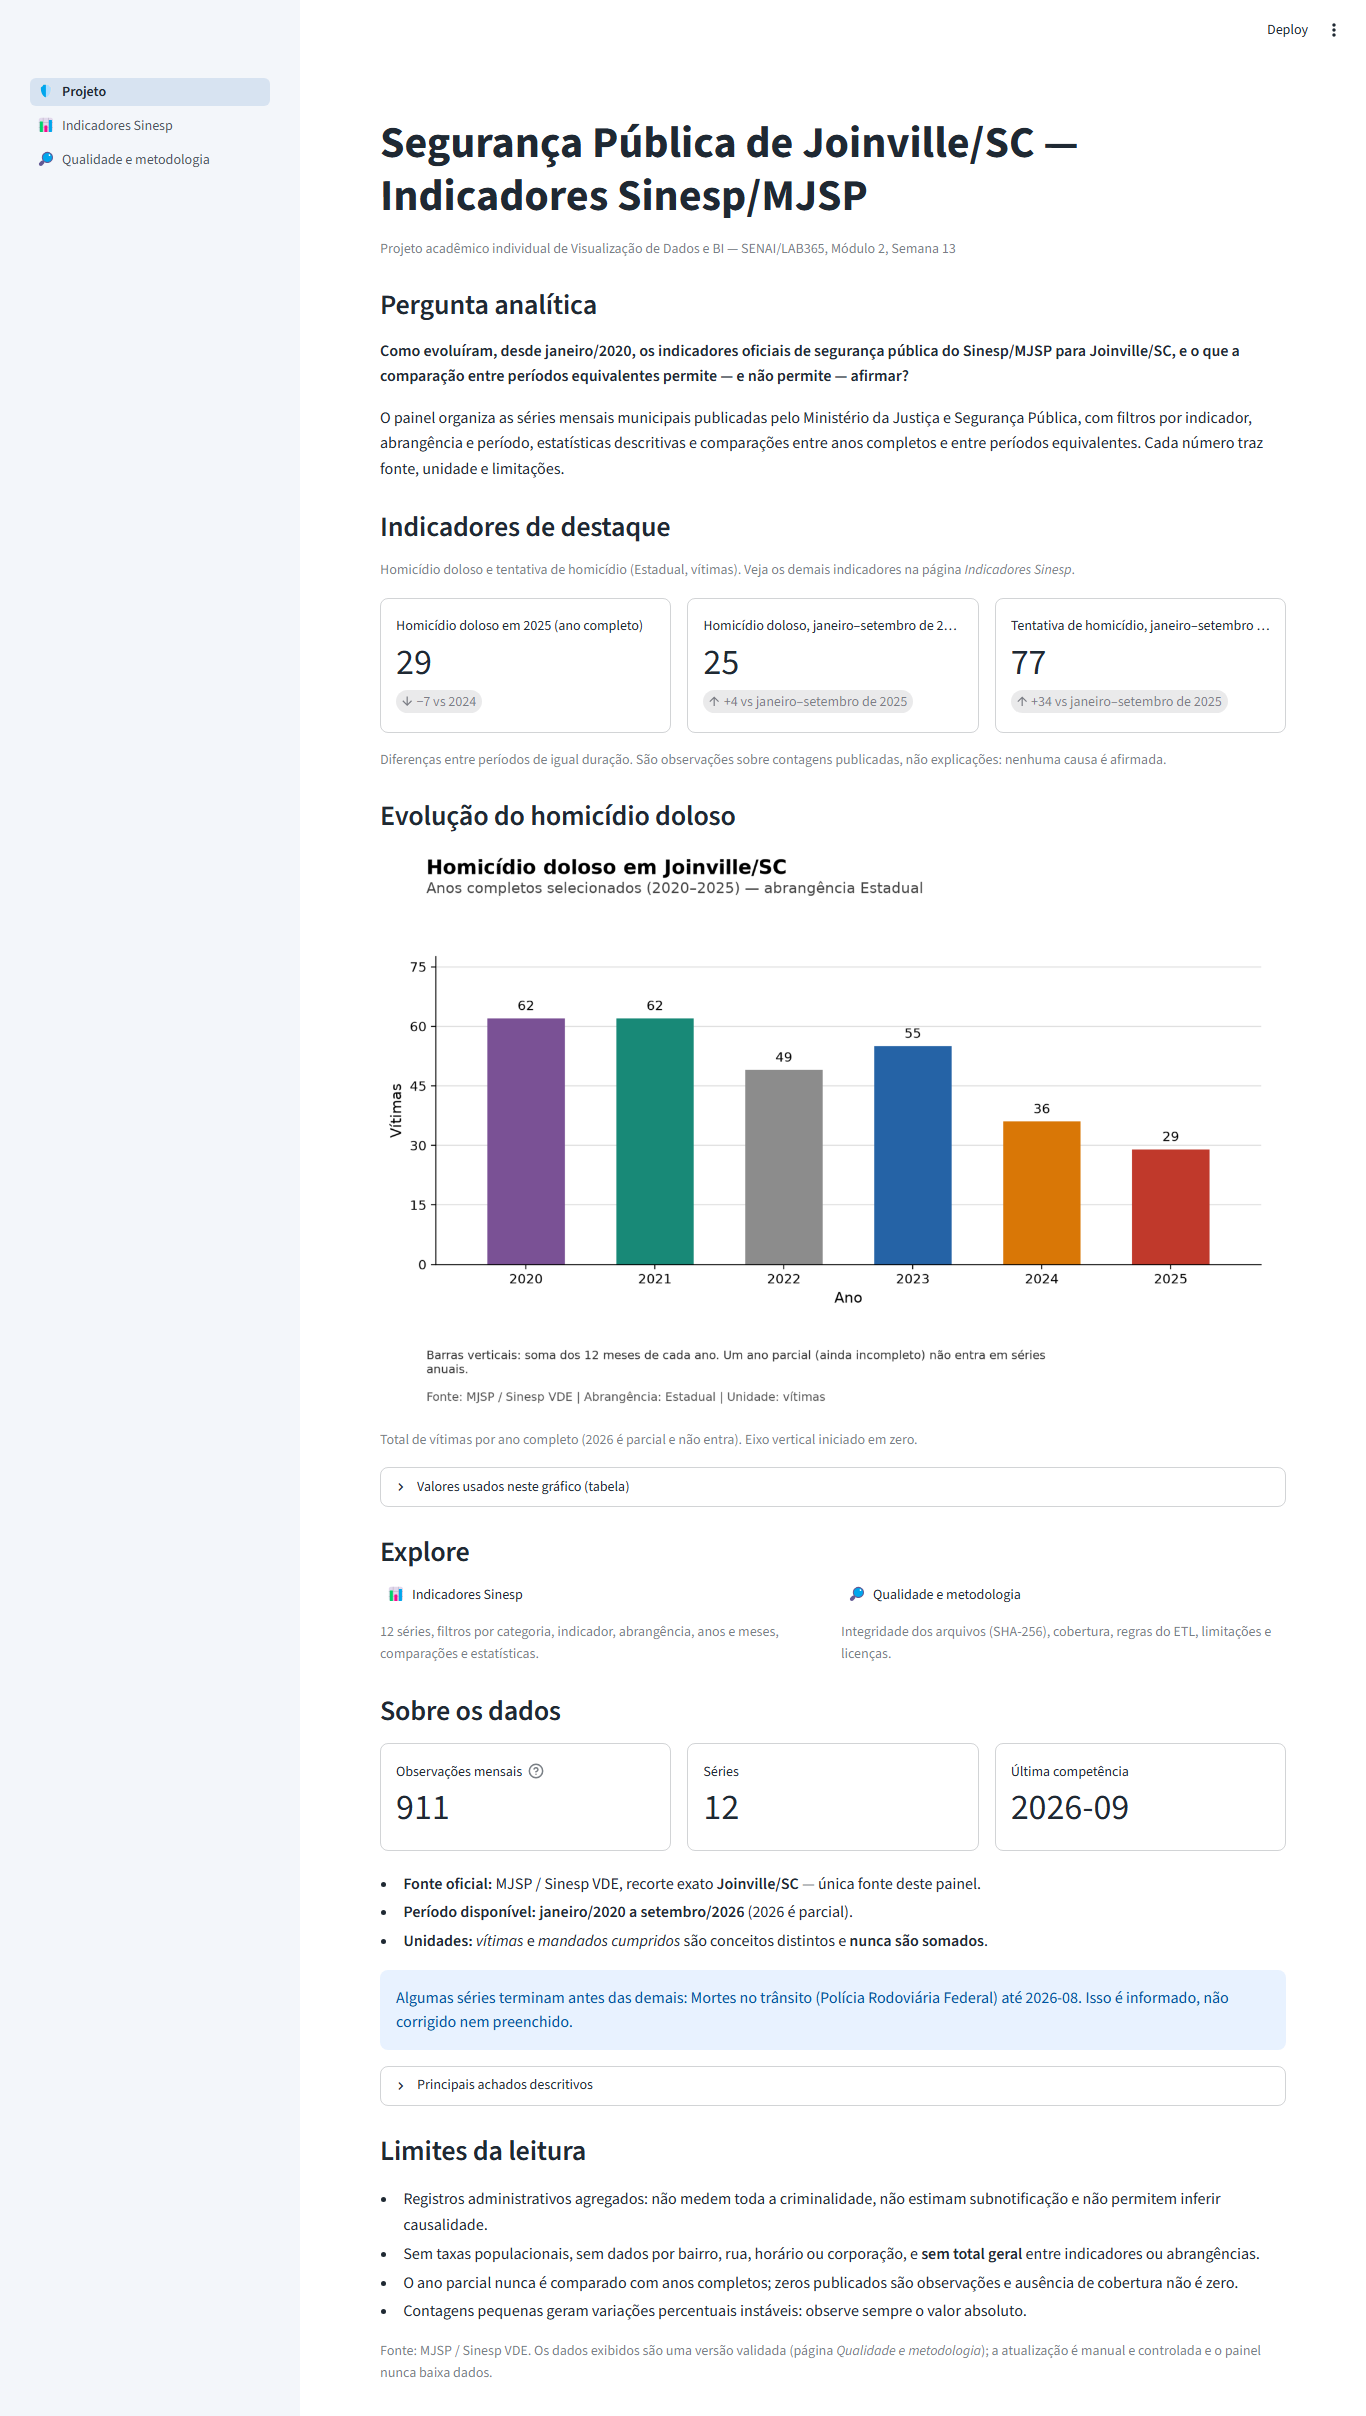
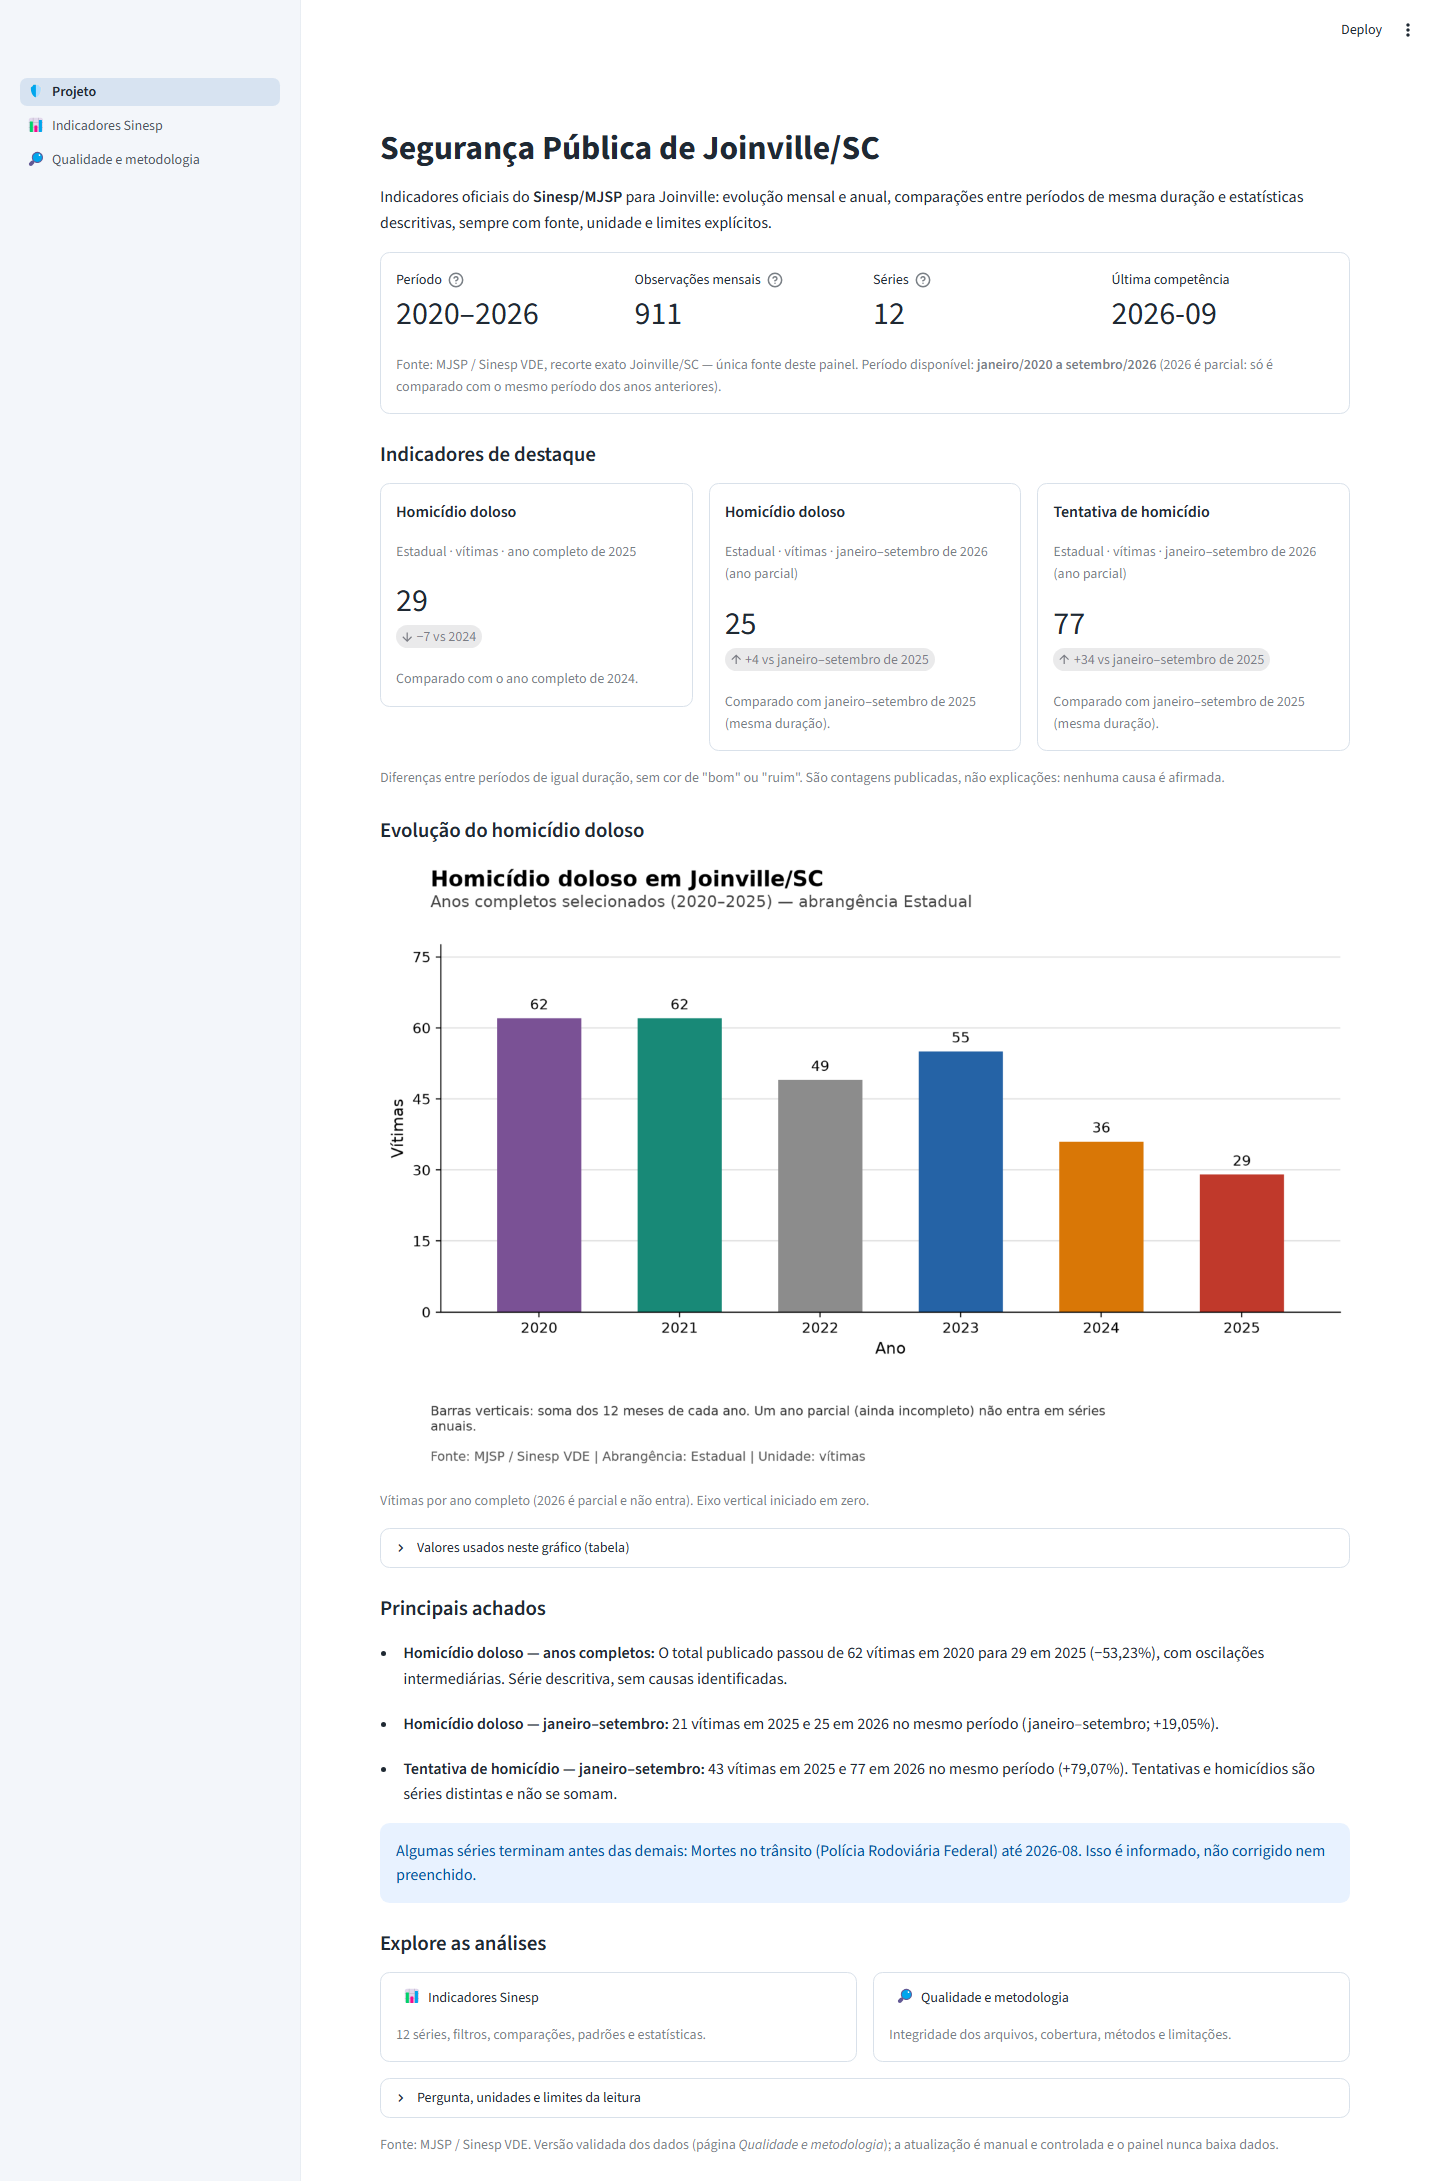
docs: atualiza capturas e descricao do painel no README
- imagens 01 a 04 substituidas por capturas reais do novo painel (Chrome,
  1440 px e 390 px)
- tabela de paginas do README descreve o novo conteudo de Projeto e Qualidade

diff --git a/README.md b/README.md
@@ -308,9 +308,9 @@ O painel tem **três páginas** e usa somente `dashboard/data_publica/` (Sinesp)
 
 | Página | Conteúdo |
 |---|---|
-| **Projeto** | Pergunta, três indicadores de destaque, o gráfico do homicídio doloso por ano e os limites da leitura |
+| **Projeto** | Fonte e período, três cartões de destaque (indicador, abrangência, unidade, período e base de comparação), o gráfico do homicídio doloso por ano, os principais achados e atalhos para as análises |
 | **Indicadores Sinesp** | Filtros (Categoria → Indicador → Abrangência; Período → Meses), resumo em cartões e cinco abas: Evolução, Comparações, Padrões e tendência, Estatística e outliers, Indicadores e interpretação |
-| **Qualidade e metodologia** | Integridade dos arquivos (SHA-256), cobertura por série, métodos, limitações, atualização e licenças |
+| **Qualidade e metodologia** | Resumo no topo (arquivos íntegros, versão, última competência, ausentes) e abas com integridade, cobertura, métodos, limitações, atualização e licenças |
 
 O filtro de meses vale para o resumo e as análises mensais; totais anuais, média móvel, acumulado e perfil mensal usam sempre os 12 meses e mostram o aviso "Análise de ano completo". A seta dos cartões acompanha o sinal da diferença. Só a aba aberta é calculada (a página abre em cerca de 3 s em vez de 7 s). Cada gráfico tem a tabela com os valores usados. A chave **Visualização compacta (celular)** gera figuras estreitas com os mesmos números. Capturas: [Projeto](documentacao/painel/imagens/01_projeto_desktop.png), [Qualidade e metodologia](documentacao/painel/imagens/03_qualidade_desktop.png), [tela estreita](documentacao/painel/imagens/04_projeto_tela_estreita.png) e modo compacto ([série mensal](documentacao/painel/imagens/05_modo_compacto_prf_mensal.png), [mapa de calor](documentacao/painel/imagens/06_modo_compacto_mapa_calor.png)).
 
